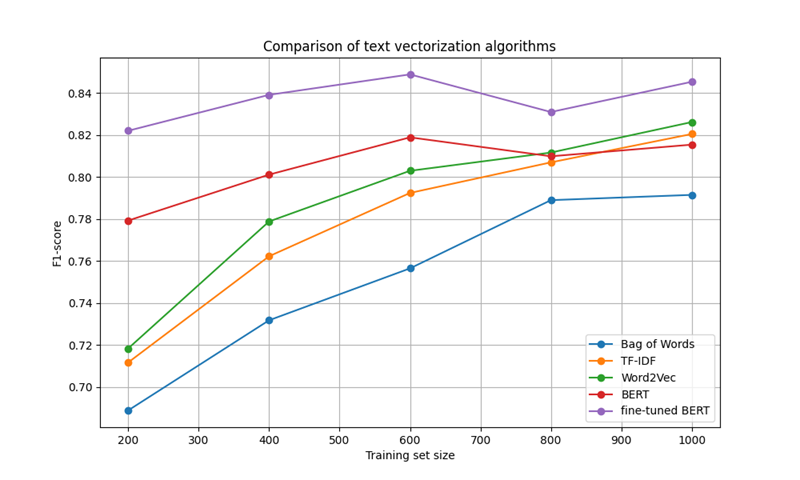
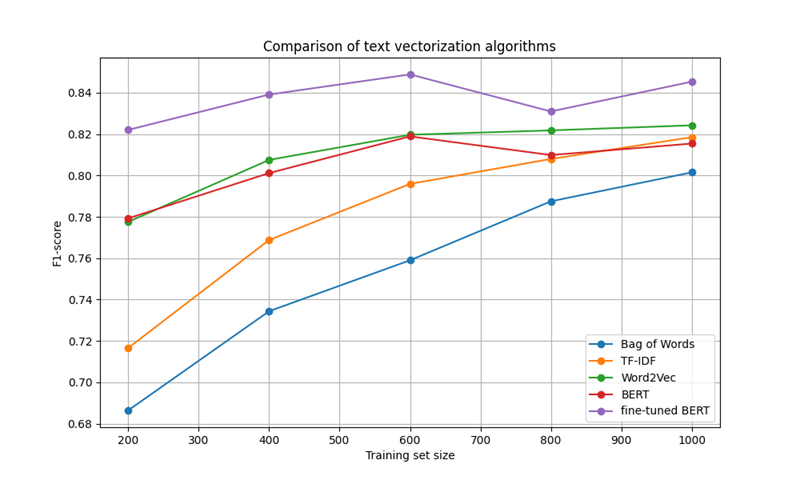
Added stopwords check to Word2Vec

diff --git a/utils.py b/utils.py
@@ -11,6 +11,8 @@ from database import Quote, engine, Base, db_connection
 import gensim
 import gensim.downloader
 import numpy as np
+import nltk
+from nltk.corpus import stopwords
 import torch
 from datasets import load_dataset
 from sklearn.feature_extraction.text import CountVectorizer, TfidfVectorizer
@@ -21,68 +23,62 @@ from config import DEVICE, SEED
 
 
 class BaseVectorizer(abc.ABC):
-    def __init__(self):
-        self.is_punctuation = False
-
     @abc.abstractmethod
-    def vectorize_init(self, train_texts):
+    def vectorize_init(self, texts):
         pass
 
     @abc.abstractmethod
-    def vectorize_text(self, test_texts):
+    def vectorize_text(self, texts):
         pass
 
 
 class BagOfWords(BaseVectorizer):
     def __init__(self):
-        super().__init__()
         self.vectorizer = CountVectorizer()
 
-    def vectorize_init(self, train_texts):
-        return self.vectorizer.fit_transform(train_texts).toarray()
+    def vectorize_init(self, texts):
+        return self.vectorizer.fit_transform(texts).toarray()
 
-    def vectorize_text(self, test_texts):
-        return self.vectorizer.transform(test_texts).toarray()
+    def vectorize_text(self, texts):
+        return self.vectorizer.transform(texts).toarray()
 
 
 class TFIDF(BaseVectorizer):
     def __init__(self):
-        super().__init__()
         self.vectorizer = TfidfVectorizer()
 
-    def vectorize_init(self, train_texts):
-        return self.vectorizer.fit_transform(train_texts).toarray()
+    def vectorize_init(self, texts):
+        return self.vectorizer.fit_transform(texts).toarray()
 
-    def vectorize_text(self, test_texts):
-        return self.vectorizer.transform(test_texts).toarray()
+    def vectorize_text(self, texts):
+        return self.vectorizer.transform(texts).toarray()
 
 
 class Word2Vec(BaseVectorizer):
     def __init__(self):
-        super().__init__()
-        self.wv = gensim.downloader.load('word2vec-google-news-300')
+        self.wv = gensim.downloader.load("word2vec-google-news-300")
+        nltk.download("stopwords")
+        self.stop_words = set(stopwords.words("english"))
 
     def vectorize(self, texts):
         vectors = []
         for text in texts:
-            words = text.split()
-            word_vectors = [self.wv[word] for word in words if word in self.wv]
+            words = nltk.word_tokenize(text)
+            word_vectors = [self.wv[word] for word in words if word in self.wv and word not in self.stop_words]
             vectors.append(np.mean(word_vectors, axis=0))
         return np.array(vectors)
 
-    def vectorize_init(self, train_texts):
-        return self.vectorize(train_texts)
+    def vectorize_init(self, texts):
+        return self.vectorize(texts)
 
-    def vectorize_text(self, test_texts):
-        return self.vectorize(test_texts)
+    def vectorize_text(self, texts):
+        return self.vectorize(texts)
 
 
 class BERT(BaseVectorizer):
     def __init__(self, model_name):
-        super().__init__()
         self.tokenizer = BertTokenizer.from_pretrained(model_name)
         self.model = BertModel.from_pretrained(model_name).to(DEVICE)
-        self.is_punctuation = True
 
     def vectorize(self, texts, batch_size=64):
         predictions = []
@@ -95,22 +91,19 @@ class BERT(BaseVectorizer):
             predictions.extend(batch_predictions)
         return np.array(predictions)
 
-    def vectorize_init(self, train_texts):
-        return self.vectorize(train_texts)
+    def vectorize_init(self, texts):
+        return self.vectorize(texts)
 
-    def vectorize_text(self, test_texts):
-        return self.vectorize(test_texts)
+    def vectorize_text(self, texts):
+        return self.vectorize(texts)
 
 
-def preprocess_text(text, is_punctuation):
+def preprocess_text(text):
     text = text.lower()
     # Remove HTML tags
     text = re.sub(r"<.*?>", "", text)
     # Remove special characters
-    if is_punctuation:
-        text = re.sub(r"[^a-zA-Z0-9.,!? ]", "", text)
-    else:
-        text = re.sub(r"[^a-zA-Z0-9 ]", "", text)
+    text = re.sub(r"[^a-zA-Z0-9.,!? ]", "", text)
     # Remove extra spaces
     text = re.sub(r"\s+", " ", text).strip()
     return text
@@ -121,11 +114,11 @@ class ImdbDataset:
         self.dataset = load_dataset("imdb")
         self.labels = ["neg", "pos"]
 
-    def split_train_test_classifier(self, train_size, test_size, is_punctuation):
+    def split_train_test_classifier(self, train_size, test_size):
         train_sample = self.dataset["train"].shuffle(seed=SEED).select(range(train_size))
         test_sample = self.dataset["test"].shuffle(seed=SEED).select(range(test_size))
-        train_texts = [preprocess_text(text, is_punctuation) for text in train_sample["text"]]
-        test_texts = [preprocess_text(text, is_punctuation) for text in test_sample["text"]]
+        train_texts = [preprocess_text(text) for text in train_sample["text"]]
+        test_texts = [preprocess_text(text) for text in test_sample["text"]]
         y_train = train_sample["label"]
         y_test = test_sample["label"]
         return train_texts, test_texts, y_train, y_test
@@ -134,7 +127,7 @@ class ImdbDataset:
         dataset = self.dataset.remove_columns("label")
 
         def preprocess(example):
-            example["text"] = preprocess_text(example["text"], True)
+            example["text"] = preprocess_text(example["text"])
 
         dataset = dataset.map(preprocess)
         dataset = dataset.map(tokenize, batched=True)
@@ -154,7 +147,7 @@ class QuotesSearch:
             quotes = [Quote(quote=item["quote"], author=item["author"]) for item in dataset]
             session.add_all(quotes)
             session.commit()
-        texts = [preprocess_text(quote.quote, self.vectorizer.is_punctuation) for quote in quotes]
+        texts = [preprocess_text(quote.quote) for quote in quotes]
         self.corpus_vectors = self.vectorizer.vectorize_init(texts)
         self.quote_ids = [quote.id for quote in quotes]
 
@@ -162,7 +155,7 @@ class QuotesSearch:
     def search(self, input_text, session, num_similar=3):
         if input_text is None or len(input_text) == 0:
             return []
-        input_vector = self.vectorizer.vectorize_text([preprocess_text(input_text, self.vectorizer.is_punctuation)])
+        input_vector = self.vectorizer.vectorize_text([preprocess_text(input_text)])
         if len(input_vector.shape) != 2:
             return []
         similarities = cosine_similarity(input_vector, self.corpus_vectors).flatten()

diff --git a/main_compare.py b/main_compare.py
@@ -23,11 +23,7 @@ def evaluate_model(model_name, model, dataset):
     f1_scores = []
     times = []
     for train_size in TRAIN_SIZES:
-        train_texts, test_texts, y_train, y_test = dataset.split_train_test_classifier(
-            train_size,
-            TEST_SIZE,
-            model.is_punctuation
-        )
+        train_texts, test_texts, y_train, y_test = dataset.split_train_test_classifier(train_size, TEST_SIZE)
         x_train = model.vectorize_init(train_texts)
         start = time.time()
         x_test = model.vectorize_text(test_texts)
